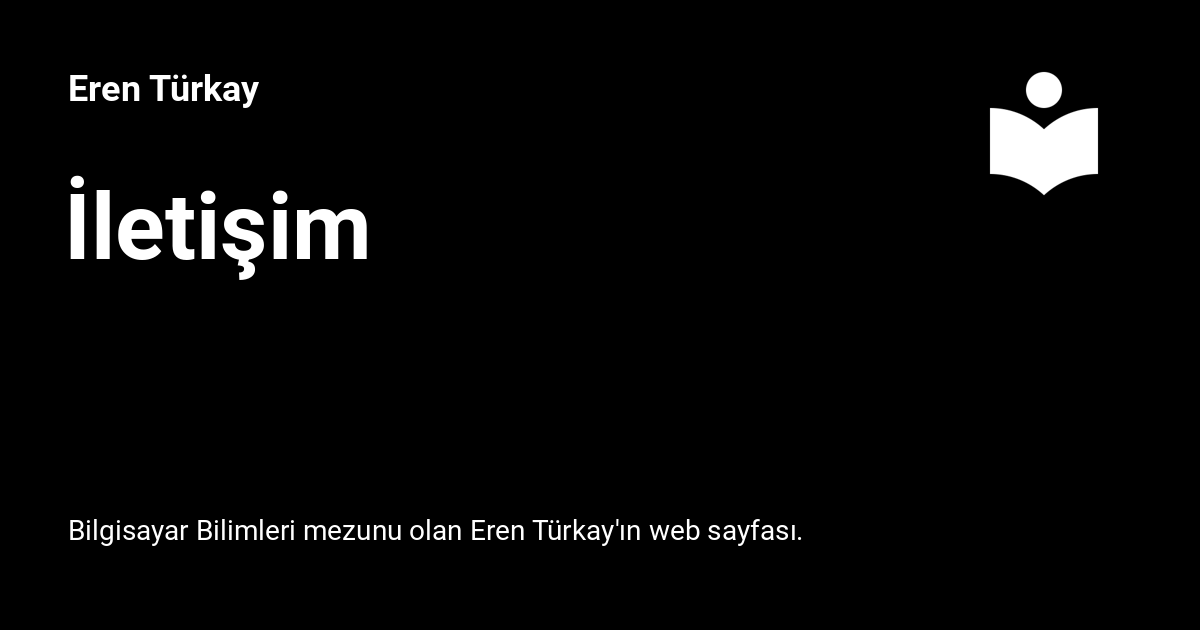
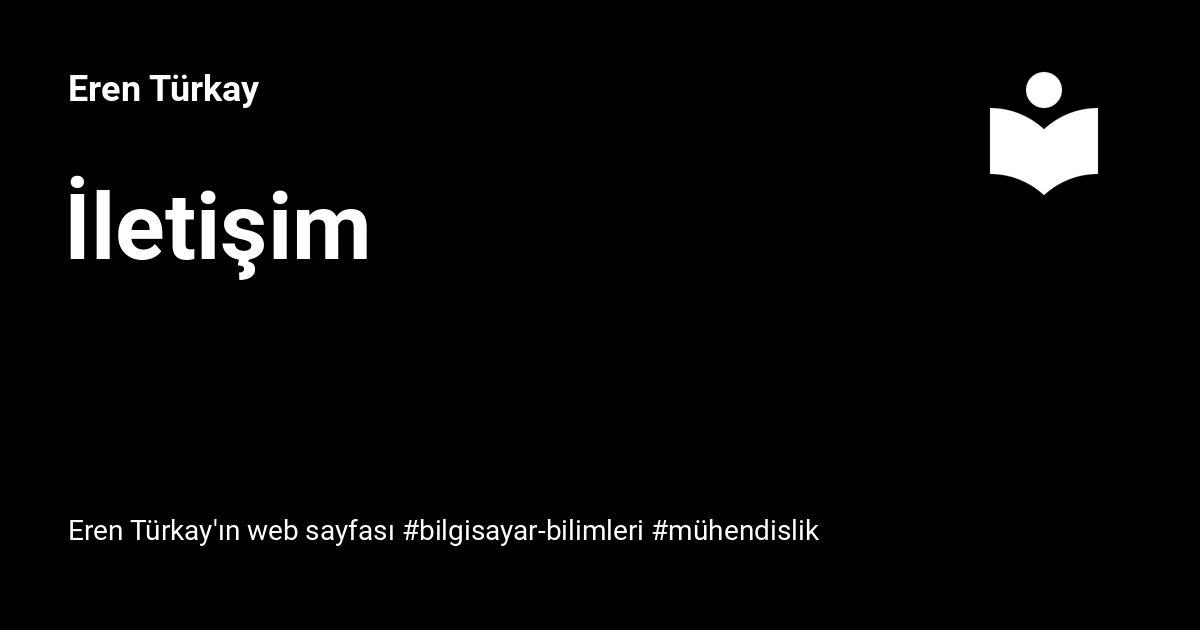
Deployed 0972163 with MkDocs version: 1.5.3

Changed region(s): [[0.0617, 0.8143, 0.6783, 0.8746]]

diff --git a/iletisim/index.html b/iletisim/index.html
@@ -6,7 +6,7 @@
       <meta charset="utf-8">
       <meta name="viewport" content="width=device-width,initial-scale=1">
       
-        <meta name="description" content="Bilgisayar Bilimleri mezunu olan Eren Türkay'ın web sayfası.">
+        <meta name="description" content="Eren Türkay'ın web sayfası #bilgisayar-bilimleri #mühendislik">
       
       
         <meta name="author" content="Eren Türkay">
@@ -63,7 +63,7 @@
       
         <meta  property="og:title"  content="İletişim - Eren Türkay" >
       
-        <meta  property="og:description"  content="Bilgisayar Bilimleri mezunu olan Eren Türkay'ın web sayfası." >
+        <meta  property="og:description"  content="Eren Türkay'ın web sayfası #bilgisayar-bilimleri #mühendislik" >
       
         <meta  property="og:image"  content="https://erenturkay.com/assets/images/social/iletisim.png" >
       
@@ -79,7 +79,7 @@
       
         <meta  name="twitter:title"  content="İletişim - Eren Türkay" >
       
-        <meta  name="twitter:description"  content="Bilgisayar Bilimleri mezunu olan Eren Türkay'ın web sayfası." >
+        <meta  name="twitter:description"  content="Eren Türkay'ın web sayfası #bilgisayar-bilimleri #mühendislik" >
       
         <meta  name="twitter:image"  content="https://erenturkay.com/assets/images/social/iletisim.png" >
       

diff --git a/resume/index.html b/resume/index.html
@@ -6,7 +6,7 @@
       <meta charset="utf-8">
       <meta name="viewport" content="width=device-width,initial-scale=1">
       
-        <meta name="description" content="Bilgisayar Bilimleri mezunu olan Eren Türkay'ın web sayfası.">
+        <meta name="description" content="Eren Türkay'ın web sayfası #bilgisayar-bilimleri #mühendislik">
       
       
         <meta name="author" content="Eren Türkay">
@@ -61,7 +61,7 @@
       
         <meta  property="og:title"  content="Resume - Eren Türkay" >
       
-        <meta  property="og:description"  content="Bilgisayar Bilimleri mezunu olan Eren Türkay'ın web sayfası." >
+        <meta  property="og:description"  content="Eren Türkay'ın web sayfası #bilgisayar-bilimleri #mühendislik" >
       
         <meta  property="og:image"  content="https://erenturkay.com/assets/images/social/resume.png" >
       
@@ -77,7 +77,7 @@
       
         <meta  name="twitter:title"  content="Resume - Eren Türkay" >
       
-        <meta  name="twitter:description"  content="Bilgisayar Bilimleri mezunu olan Eren Türkay'ın web sayfası." >
+        <meta  name="twitter:description"  content="Eren Türkay'ın web sayfası #bilgisayar-bilimleri #mühendislik" >
       
         <meta  name="twitter:image"  content="https://erenturkay.com/assets/images/social/resume.png" >
       

diff --git a/index.html b/index.html
@@ -6,7 +6,7 @@
       <meta charset="utf-8">
       <meta name="viewport" content="width=device-width,initial-scale=1">
       
-        <meta name="description" content="Bilgisayar Bilimleri mezunu olan Eren Türkay'ın web sayfası">
+        <meta name="description" content="Eren Türkay'ın web sayfası #bilgisayar-bilimleri #mühendislik">
       
       
         <meta name="author" content="Eren Türkay">
@@ -63,7 +63,7 @@
       
         <meta  property="og:title"  content="Anasayfa" >
       
-        <meta  property="og:description"  content="Bilgisayar Bilimleri mezunu olan Eren Türkay'ın web sayfası" >
+        <meta  property="og:description"  content="Eren Türkay'ın web sayfası #bilgisayar-bilimleri #mühendislik" >
       
         <meta  property="og:image"  content="https://erenturkay.com/assets/images/social/index.png" >
       
@@ -79,7 +79,7 @@
       
         <meta  name="twitter:title"  content="Anasayfa" >
       
-        <meta  name="twitter:description"  content="Bilgisayar Bilimleri mezunu olan Eren Türkay'ın web sayfası" >
+        <meta  name="twitter:description"  content="Eren Türkay'ın web sayfası #bilgisayar-bilimleri #mühendislik" >
       
         <meta  name="twitter:image"  content="https://erenturkay.com/assets/images/social/index.png" >
       

diff --git a/404.html b/404.html
@@ -6,7 +6,7 @@
       <meta charset="utf-8">
       <meta name="viewport" content="width=device-width,initial-scale=1">
       
-        <meta name="description" content="Bilgisayar Bilimleri mezunu olan Eren Türkay'ın web sayfası.">
+        <meta name="description" content="Eren Türkay'ın web sayfası #bilgisayar-bilimleri #mühendislik">
       
       
         <meta name="author" content="Eren Türkay">
